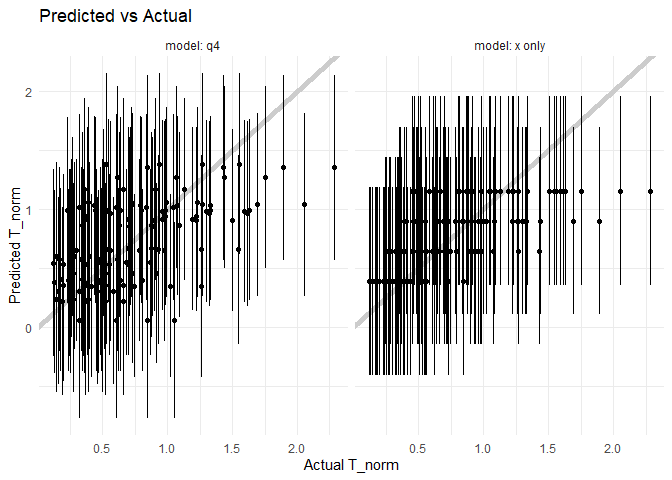
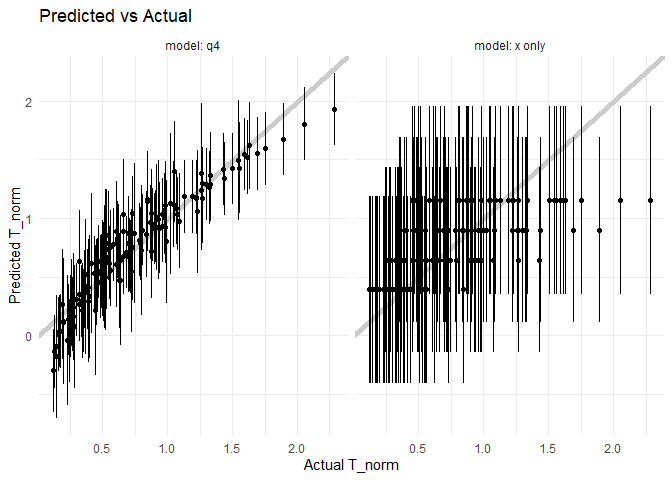
Completed challenge 11 revisions

diff --git a/challenges/c11-psaap-assignment.md b/challenges/c11-psaap-assignment.md
@@ -360,9 +360,7 @@ fitting. So `T_norm ~ . - x` would fit on all columns *except* `x`.
 ## TODO: Inspect the regression coefficients for the following model
 fit_q4 <- 
   df_train %>% 
-  # lm(formula = T_norm ~ . - idx - avg_q - avg_T - rms_T)
-  lm(formula = T_norm ~ L + W + U_0 + N_p + k_f + T_f)
-  # lm(formula = T_norm ~ L - W - U_0 - N_p - k_f - T_f)
+  lm(formula = T_norm ~ . - idx - avg_q - avg_T - rms_T)
 
 fit_q4 %>%
   summary()
@@ -370,27 +368,38 @@ fit_q4 %>%
 
     ## 
     ## Call:
-    ## lm(formula = T_norm ~ L + W + U_0 + N_p + k_f + T_f, data = .)
+    ## lm(formula = T_norm ~ . - idx - avg_q - avg_T - rms_T, data = .)
     ## 
     ## Residuals:
     ##      Min       1Q   Median       3Q      Max 
-    ## -0.80856 -0.23929  0.01347  0.23095  1.01391 
+    ## -0.31956 -0.06139  0.00496  0.05931  0.35718 
     ## 
     ## Coefficients:
     ##               Estimate Std. Error t value Pr(>|t|)    
-    ## (Intercept)  4.882e+00  8.337e-01   5.856 1.26e-07 ***
-    ## L            2.570e+00  2.001e+00   1.284   0.2032    
-    ## W           -4.442e+01  8.028e+00  -5.533 4.67e-07 ***
-    ## U_0         -1.682e-01  1.849e-01  -0.910   0.3660    
-    ## N_p         -4.017e-07  2.029e-07  -1.979   0.0515 .  
-    ## k_f         -2.280e+00  3.329e+00  -0.685   0.4956    
-    ## T_f         -4.783e-03  1.151e-03  -4.155 8.74e-05 ***
+    ## (Intercept) -3.033e-03  1.656e+00  -0.002 0.998544    
+    ## x            1.018e+00  5.607e-02  18.160  < 2e-16 ***
+    ## L            3.961e+00  9.362e-01   4.231 7.81e-05 ***
+    ## W           -3.715e+01  6.394e+00  -5.810 2.33e-07 ***
+    ## U_0         -3.257e-01  1.136e-01  -2.868 0.005633 ** 
+    ## N_p          2.723e-07  1.382e-07   1.970 0.053334 .  
+    ## k_f          2.547e+00  2.128e+00   1.197 0.235999    
+    ## T_f         -3.791e-04  1.173e-03  -0.323 0.747569    
+    ## rho_f       -5.616e-01  3.210e-01  -1.750 0.085097 .  
+    ## mu_f        -8.254e+03  1.468e+04  -0.562 0.575975    
+    ## lam_f       -4.679e+00  1.113e+01  -0.420 0.675730    
+    ## C_fp        -6.592e-04  3.204e-04  -2.057 0.043887 *  
+    ## rho_p        5.640e-06  1.837e-05   0.307 0.759865    
+    ## d_p          1.236e+05  4.493e+04   2.752 0.007757 ** 
+    ## C_pv        -7.243e-04  3.725e-04  -1.945 0.056361 .  
+    ## h            1.407e-06  4.871e-05   0.029 0.977054    
+    ## I_0          1.600e-07  4.286e-08   3.733 0.000413 ***
+    ## eps_p        1.107e+00  1.101e+00   1.006 0.318472    
     ## ---
     ## Signif. codes:  0 '***' 0.001 '**' 0.01 '*' 0.05 '.' 0.1 ' ' 1
     ## 
-    ## Residual standard error: 0.3723 on 73 degrees of freedom
-    ## Multiple R-squared:  0.4562, Adjusted R-squared:  0.4115 
-    ## F-statistic: 10.21 on 6 and 73 DF,  p-value: 3.528e-08
+    ## Residual standard error: 0.1402 on 62 degrees of freedom
+    ## Multiple R-squared:  0.9345, Adjusted R-squared:  0.9165 
+    ## F-statistic: 52.04 on 17 and 62 DF,  p-value: < 2.2e-16
 
 ``` r
 sd(df_psaap$x)
@@ -416,24 +425,25 @@ sd(df_psaap$T_f)
     simulation ID with no physical meaning. It could lead to overfitting
     by capturing simulation-specific quirks.
 - Which inputs are *statistically significant*, according to the model?
-  - W, T_f, and intercept.
+  - W, x, L, U_0, C_fp, d_p, and I\_\_0
 - What is the regression coefficient for `x`? What about the regression
   coefficient for `T_f`?
-  - x does not appear to have a regression coefficient. T_f’s regression
-    coefficient is -0.004783458.
+  - x’s regression coefficient is 1.018. T_f’s regression coefficient is
+    -0.0003791.
 - What is the standard deviation of `x` in `df_psaap`? What about the
   standard deviation of `T_f`?
   - The standard deviation of x is 0.2805121, and T_f is 38.94204.
 - How do these standard deviations relate to the regression coefficients
   for `x` and `T_f`?
-  - The coefficient tells us how much T_norm changes per unit change in
-    x, and the standard deviation tells us how much x naturally varies.
-    The product of these two gives us a sense of practical influence.
-    For example, even though T_f has a small coefficient, its large
-    spread can lead to a noticeable effect. Conversely, if x had a
-    moderate coefficient and large spread, its overall contribution
-    could be even bigger. So, both scale and variability matter when
-    assessing a variable’s true effect on the model.
+  - The regression coefficient shows how much T_norm changes per
+    one-unit change in the input variable, but the standard deviation
+    shows how much that input typically varies. For x, a coefficient of
+    1.018 combined with a standard deviation of 0.28 means changes in x
+    can cause noticeable shifts in T_norm. For T_f, even though it has a
+    much larger standard deviation, its tiny coefficient (-0.0003791)
+    means its overall effect on T_norm is minimal. Thus, both the size
+    of the coefficient and the natural variability of a variable are
+    important for understanding its practical impact on the model.
 - Note that literally *all* of the inputs above have *some* effect on
   the output `T_norm`; so they are all “significant” in that sense. What
   does this tell us about the limitations of statistical significance
@@ -721,9 +731,11 @@ mean(
     conservative.
 - What interval for `T_norm` would you recommend the design team to plan
   around?
-  - They should design around x = 1, L = 0.2, W = 0.04, U_0 = 1.0, as
-    this model covers more than the required amount (80%) of values to
-    account for.
+  - The design team should plan around a T_norm interval of
+    approximately \[1.457, 2.296\]. This prediction interval is based on
+    their proposed design (x = 1, L = 0.2, W = 0.04, U₀ = 1.0) and
+    captures about 80% of possible T_norm outcomes, satisfying their
+    reliability requirement.
 - Are there any other recommendations you would provide?
   - Yes, I would recommend investigating whether additional controllable
     inputs could further narrow uncertainty. Running sensitivity
